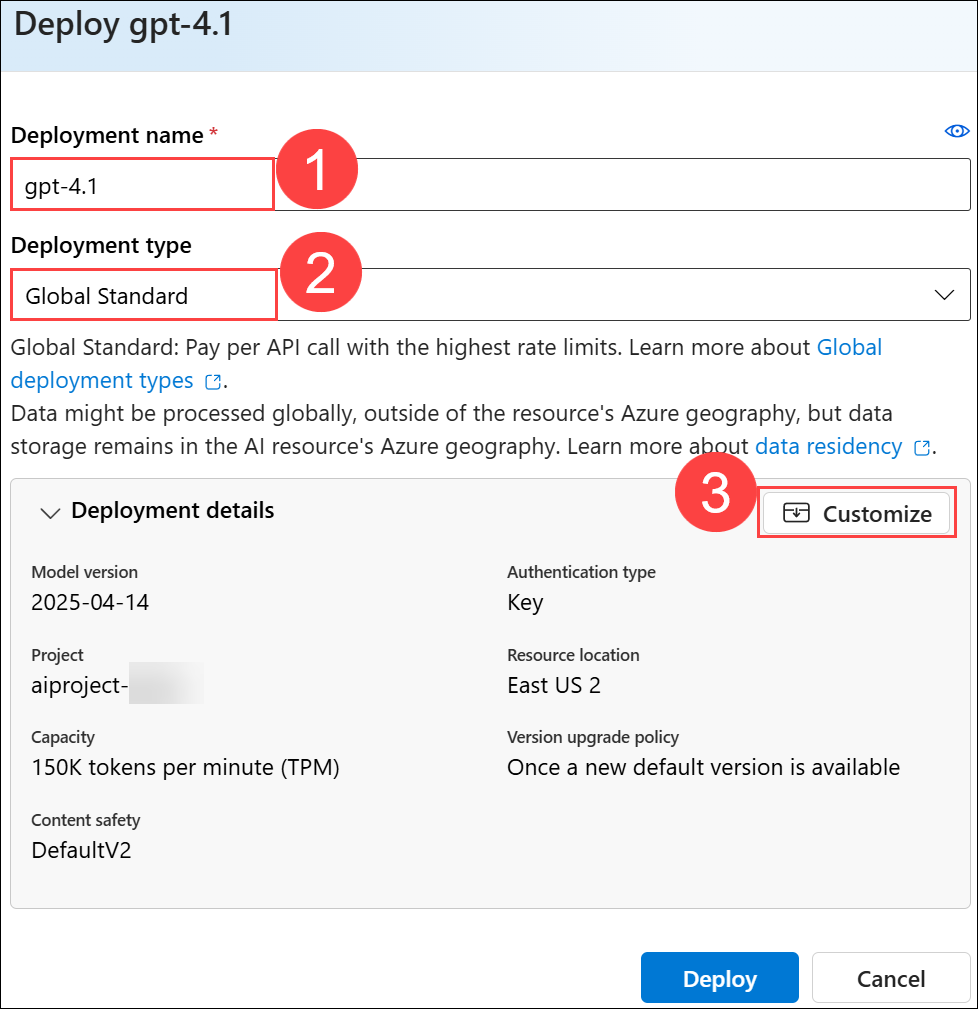
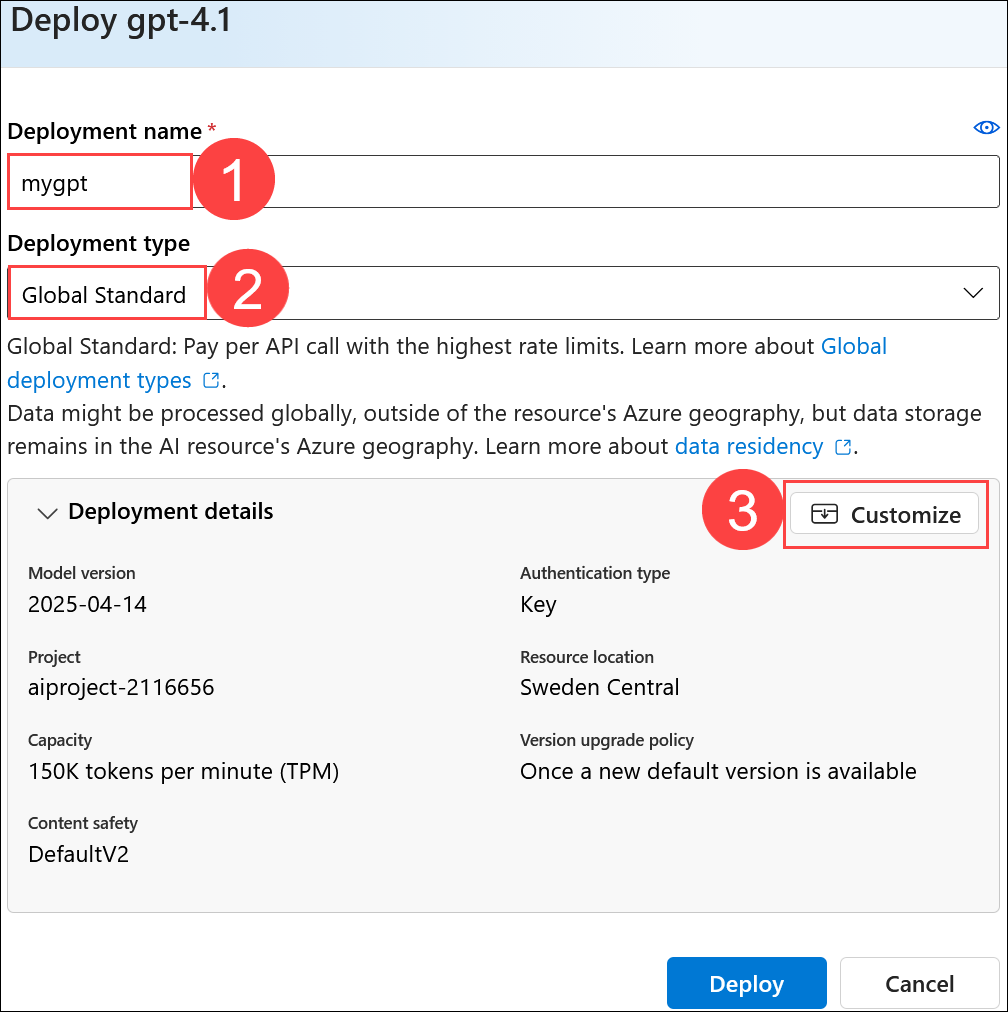
Final updates

diff --git a/Labs/use-your-own-data-custom.md b/Labs/use-your-own-data-custom.md
@@ -4,17 +4,18 @@
 
 ## Lab Overview
 
-Retrieval Augmented Generation (RAG) is a design pattern that enables AI developers in Azure to build intelligent applications by combining large language models with organization-specific data. Instead of relying only on the model’s pre-trained knowledge, RAG retrieves relevant information from custom data sources—such as documents, databases, or knowledge bases—and incorporates it into the prompt to generate more accurate, context-aware responses. This approach is widely used for developing chat-based and enterprise AI applications. In this exercise, AI developers will use Microsoft Foundry within Azure to integrate custom data into a generative AI solution, enabling more reliable and domain-specific outputs.
+Retrieval Augmented Generation (RAG) is a design pattern that enables AI developers in Azure to build intelligent applications by combining large language models with organization-specific data. Instead of relying only on the model’s pre-trained knowledge, RAG retrieves relevant information from custom data sources such as documents, databases, or knowledge bases and incorporates it into the prompt to generate more accurate, context-aware responses. This approach is widely used for developing chat-based and enterprise AI applications.
 
 ## Lab Objectives
 
-In this exercise, you will be able to complete the following tasks:
+In this exercise, AI developers will use Microsoft Foundry within Azure to integrate custom data into a generative AI solution, enabling more reliable and domain-specific outputs in the following tasks:
 
 - Task 1: Provision Microsoft Foundry Hub and Project
 - Task 2: Deploy a Model
 - Task 3: Use Prompt Engineering in the Playground
-- Task 4: Create a RAG application
-- Task 5: Run the RAG application
+- Task 4: Add grounding data in the playground
+- Task 5: Create a RAG application
+- Task 6: Run the RAG application
 
 ## Task 1: Provision Microsoft Foundry Hub and Project
 
@@ -91,7 +92,7 @@ In this task, you will configure two models within your Azure Foundry project to
 
 1. Use the following settings in the **Deploy model wizard** and then click on **Deploy**:
 
-    - **Deployment name**: **`gpt-4.1` (1)**
+    - **Deployment name**: **`mygpt` (1)**
     - **Deployment type**: **`Global Standard` (2)**
     - In order to edit the Deployment details click on **Customize (3)**.
 
@@ -108,7 +109,7 @@ In this task, you will configure two models within your Azure Foundry project to
 
     > **Note:** Reducing the Tokens Per Minute (TPM) helps avoid over-using the quota available in the subscription you are using. 10,000 TPM is sufficient for the data used in this exercise.
 
-1. Now lets return to the **Models catalog (1)** page, Make sure the collection is set to **Azure OpenAI (2)**  search and select for **text-embedding-ada-002 (3)**.On the detail page select **Use this model (4)**.
+1. Now lets return to the **Models catalog (1)** page, Make sure the collection is set to **Azure OpenAI (2)**  search and select for **text-embedding-3-large (3)**.On the detail page select **Use this model (4)**.
 
     ![](./media/T2S6.png)
 
@@ -120,13 +121,13 @@ In this task, you will configure two models within your Azure Foundry project to
 
 1. Use the following settings in the **Deploy model wizard** and then click on **Deploy**:
 
-    - **Deployment name**: **`text-embedding-ada-002` (1)**
+    - **Deployment name**: **`textembeded` (1)**
     - **Deployment type**: **`Global Standard` (2)**
     - In order to edit the Deployment details click on **Customize (3)**.
 
         ![](./media/T2S5i.png)
 
-    - **Model version**: **`2(default)`(4)**
+    - **Model version**: **`1(default)`(4)**
     - **Connected AI resource**: **`Select the resource created previously` (5)**
     - **Tokens per Minute Rate Limit (thousands)**: **`10k` (6)**
     - **Content filter**: **`DefaultV2` (7)**
@@ -141,13 +142,13 @@ In this task, you will configure two models within your Azure Foundry project to
 
 ## Task 3: Use Prompt Engineering in the Playground
 
-Before using your index in a RAG-based prompt flow, let’s verify that it can be used to affect generative AI responses.
+In this task, we will see how prompt engineering can influence a generative AI model’s responses, even without integrating your RAG index yet. The goal is to see how the system message can guide the model’s behavior.
 
 1. In the navigation pane on the left, select the **Playgrounds (1)** page and click on the **Try the Chat playground (2)**.
 
     ![](./media/T5S1.png)
 
-1. On the **Chat playground** page, in the Setup pane, ensure that your **gpt-4.1 [version:2025-04-14 (Default)](1)** model deployment is selected. 
+1. On the **Chat playground** page, in the Setup pane, ensure that your **gpt-4.1 (version:2025-04-14) (1)** model deployment is selected. 
 
     ![](./media/T5S2.png)
 
@@ -165,9 +166,9 @@ Before using your index in a RAG-based prompt flow, let’s verify that it can b
 
     ```
     You are a travel assistant that provides information on travel services available from Margie's Travel.
-
     ```
     ![](./media/T5S5.png)
+
     ![](./media/T5S5i.png)
 
 1. In the chat window, enter the same query and review the response.
@@ -182,7 +183,7 @@ Before using your index in a RAG-based prompt flow, let’s verify that it can b
     ```
     ![](./media/T5S7.png)
 
-## Task 3: Add grounding data in the playground
+## Task 4: Add grounding data in the playground
 
 In this task, you will add data to your Azure Foundry project to support your generative AI application. The dataset consists of travel brochures in PDF format from the fictitious travel agency Margie’s Travel. You will upload these documents to the project so they can be indexed and used as a custom data source. This step ensures that the AI solution can retrieve relevant information from the brochures and generate accurate, context-aware responses based on their content.
 
@@ -282,12 +283,13 @@ In this task, you will add data to your Azure Foundry project to support your ge
     - Create the Azure AI Search index.
     - Register the index asset.
 
-## Task 4: Creating RAG application
+## Task 5: Creating RAG application
 
+In this task, we will set up and run a Retrieval-Augmented Generation (RAG) Python application that uses the Microsoft Foundry endpoint and OpenAI SDK to answer user queries based on travel brochures.
 
-1. On the **Microsoft Foundry** portal, go to the Overview page for your project.
+1. On the **Microsoft Foundry** portal, go to the **Overview (1)** page for your project, copy the **API key (2)** and **Azure OpenAI endpoint (3)** to a notepad as we will have to use them later in the task .
 
-1. Find the Foundry endpoint displayed on the welcome screen (for example, https://<your-resource>.services.ai.azure.com/api/projects/<your-project>). Copy this endpoint — you’ll use it to connect to your model.
+    ![](./media/T4S1.png)
 
     > **Note**: The Microsoft Foundry SDK handles authentication and endpoint routing automatically when you use AIProjectClient.get_openai_client(). Make a note of this endpoint.
 
@@ -302,11 +304,17 @@ In this task, you will add data to your Azure Foundry project to support your ge
     ```
     > **Note**: If the Terminal option is not visible click on **(...)**.
 
+    ![](./media/T4S4i.png)
+
     ![](./media/T4S4.png)
 
 1. After the repo has been cloned, Click on **Explorer (1)** then **open the folder (2)** in VS Code, and navigate to the **`C:\labfiles` (3)** then select the folder **mslearn-ai-foundry` (4)** and click on **Select Folder (5)**.
 
     ![](./media/T4S5.png)
+
+    > **Note**: Click on **Yes, I trust the authors**.
+    
+     ![](./media/T4S5n.png)
 
 1. In the VS Code Explorer pane, navigate to **labfiles (1) > foundry-rag (2) > rag-app (3)** and review the files in the folder **(4)**:
 
@@ -321,13 +329,16 @@ In this task, you will add data to your Azure Foundry project to support your ge
 
       ![](./media/T4S8.png)
 
-1. Now lets install the OpenAI SDK package and other required packages by running the following command:
+1. Now lets install the OpenAI SDK package and other required packages by running the following commands:
 
     ```
     pip install -r requirements.txt
     ```
      ![](./media/T4S10.png)
 
+    ```
+    pip install openai tqdm
+    ```
 1. In VS Code, open the **`.env`** file, replace the placeholders and then Save the **`.env`** file.:    
     ```
     API_KEY="your_api_key"
@@ -483,8 +494,9 @@ In this task, you will add data to your Azure Foundry project to support your ge
 
 1. Save the file **(Ctrl+S)**.
 
-## Task 5: Run the RAG application
+## Task 6: Run the RAG application
 
+In this task, we will run and interact with your RAG (Retrieval-Augmented Generation) application after you’ve successfully saved your code:
 1. After saving the RAG code successfully, in the same terminal lets run the application:
 
     ```
